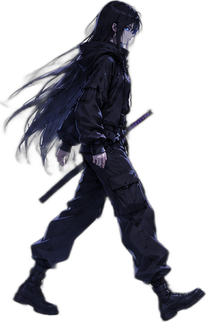
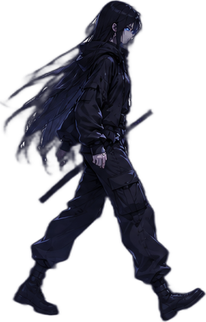
Wilds: убрана белая кайма на прядях волос
Claude-Session: https://claude.ai/code/session_01XvKRdjkTEqndhwRATULBKN

diff --git a/wilds/tools/prep_sprites.py b/wilds/tools/prep_sprites.py
@@ -41,11 +41,31 @@ def split4(a, box):
     return [(y0, y1, xs[i], xs[i + 1]) for i in range(4)]
 
 
+def defringe(im):
+    """Убирает белую кайму на тонких прядях: выбиваем почти белое и вычитаем подмешанный белый фон."""
+    arr = np.asarray(im.convert("RGBA")).astype(np.float32)
+    white = arr[:, :, :3].min(axis=2)
+    arr[:, :, 3] *= np.clip((238.0 - white) / 38.0, 0.0, 1.0)
+    al = arr[:, :, 3:4] / 255.0
+    fg = (arr[:, :, :3] - (1.0 - al) * 255.0) / np.maximum(al, 0.05)
+    fg = np.clip(fg, 0, 255)
+    fg = np.where(al < 0.999, fg, arr[:, :, :3])
+    # полупрозрачные пряди красим в тёмный: светлые остатки белого фона не нужны
+    dark = np.array([16.0, 16.0, 38.0], dtype=np.float32)
+    t = np.clip((al - 0.85) / 0.15, 0.0, 1.0)
+    arr[:, :, :3] = dark * (1.0 - t) + fg * t
+    return Image.fromarray(arr.astype(np.uint8), "RGBA")
+
+
+def resize(im, size):
+    return im.convert("RGBa").resize(size, Image.LANCZOS).convert("RGBA")
+
+
 def crop(img, a, box):
     y0, y1, x0, x1 = box
     sub = a[y0:y1, x0:x1]
     ys, xs = np.where(sub)
-    return img.crop((x0 + xs.min(), y0 + ys.min(), x0 + xs.max() + 1, y0 + ys.max() + 1))
+    return defringe(img.crop((x0 + xs.min(), y0 + ys.min(), x0 + xs.max() + 1, y0 + ys.max() + 1)))
 
 
 views_img, va = cut("art/source/mita_views.png")
@@ -73,9 +93,9 @@ for name, boxes in rows.items():
 
 final = {}
 for n, im in named.items():
-    final[n] = im.resize((round(im.width * k_views), round(im.height * k_views)), Image.LANCZOS)
+    final[n] = resize(im, (round(im.width * k_views), round(im.height * k_views)))
 for n, (im, kw) in walk.items():
-    final[n] = im.resize((round(im.width * kw), round(im.height * kw)), Image.LANCZOS)
+    final[n] = resize(im, (round(im.width * kw), round(im.height * kw)))
 
 lines = ["# Автоматически создано tools/prep_sprites.py. Имя: [центр стоп X, высота] в пикселях.",
          "extends RefCounted", "", "const DATA := {"]
